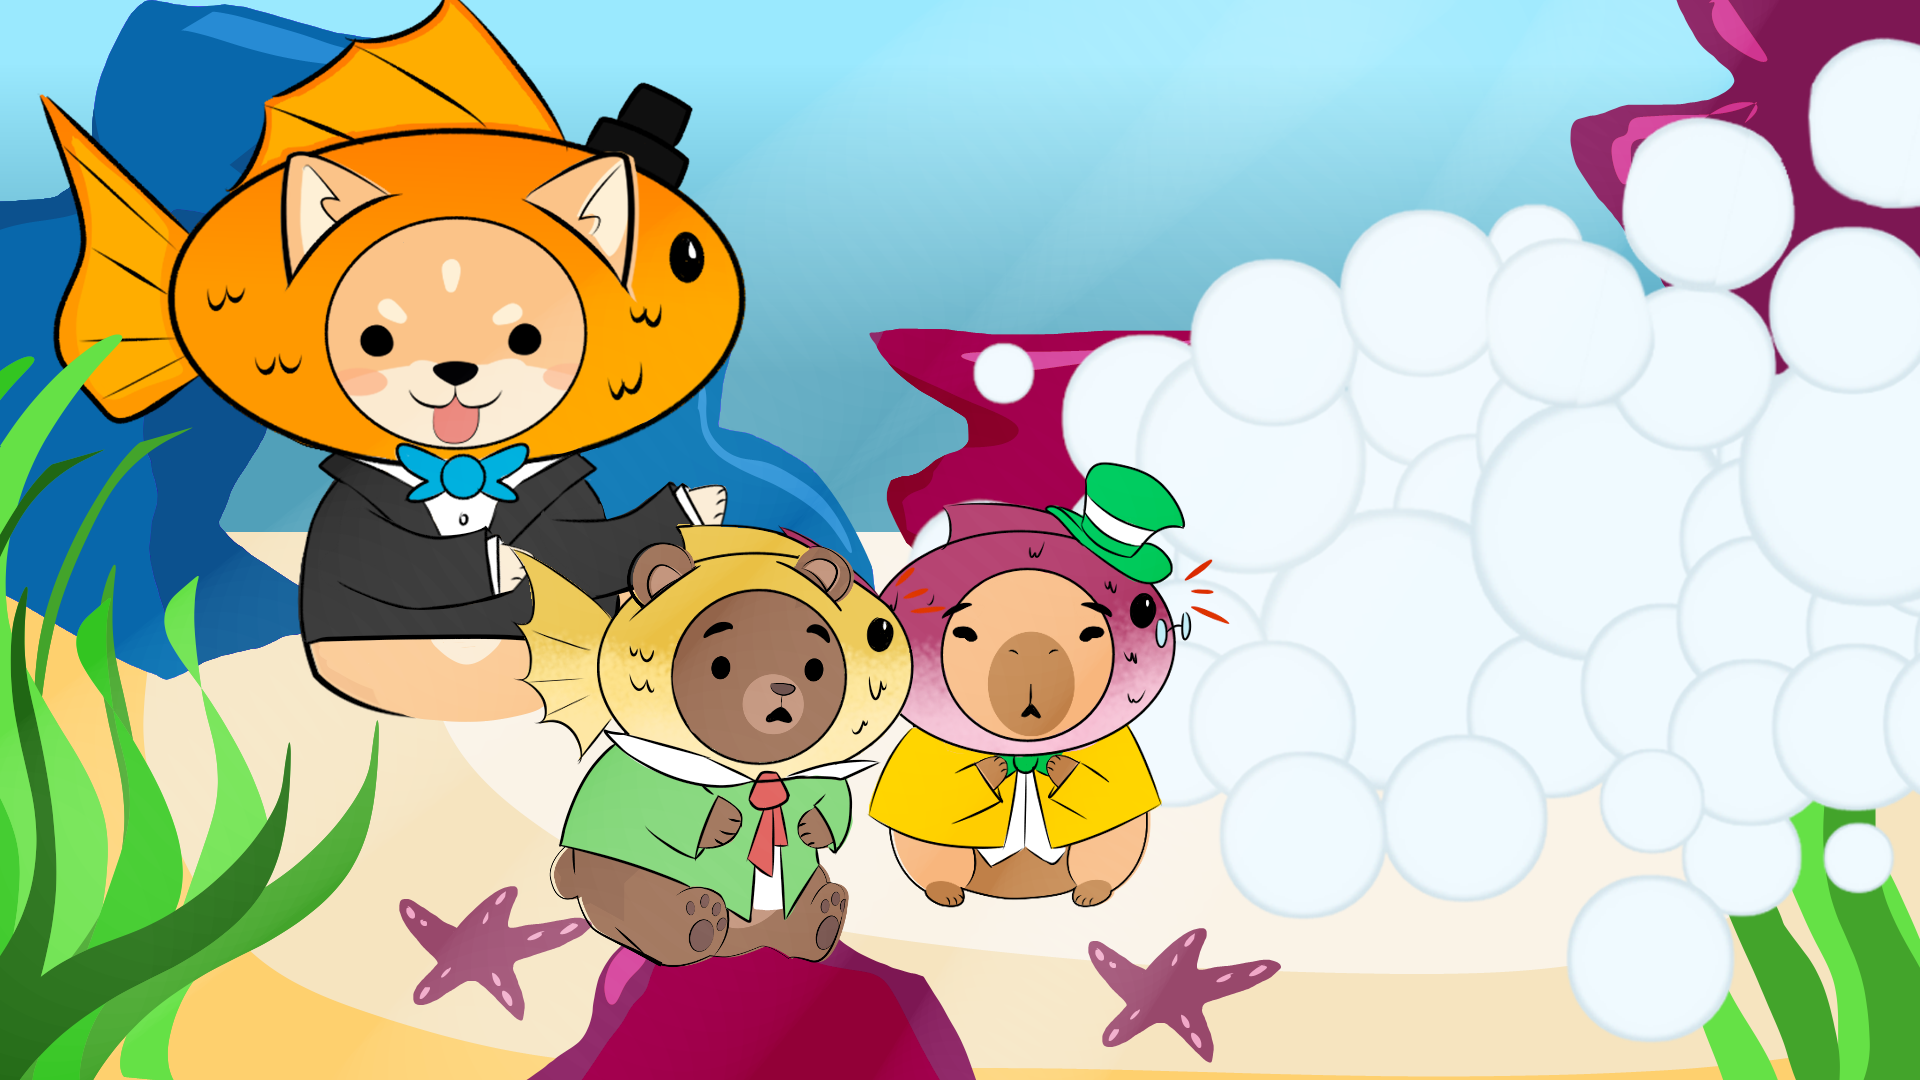
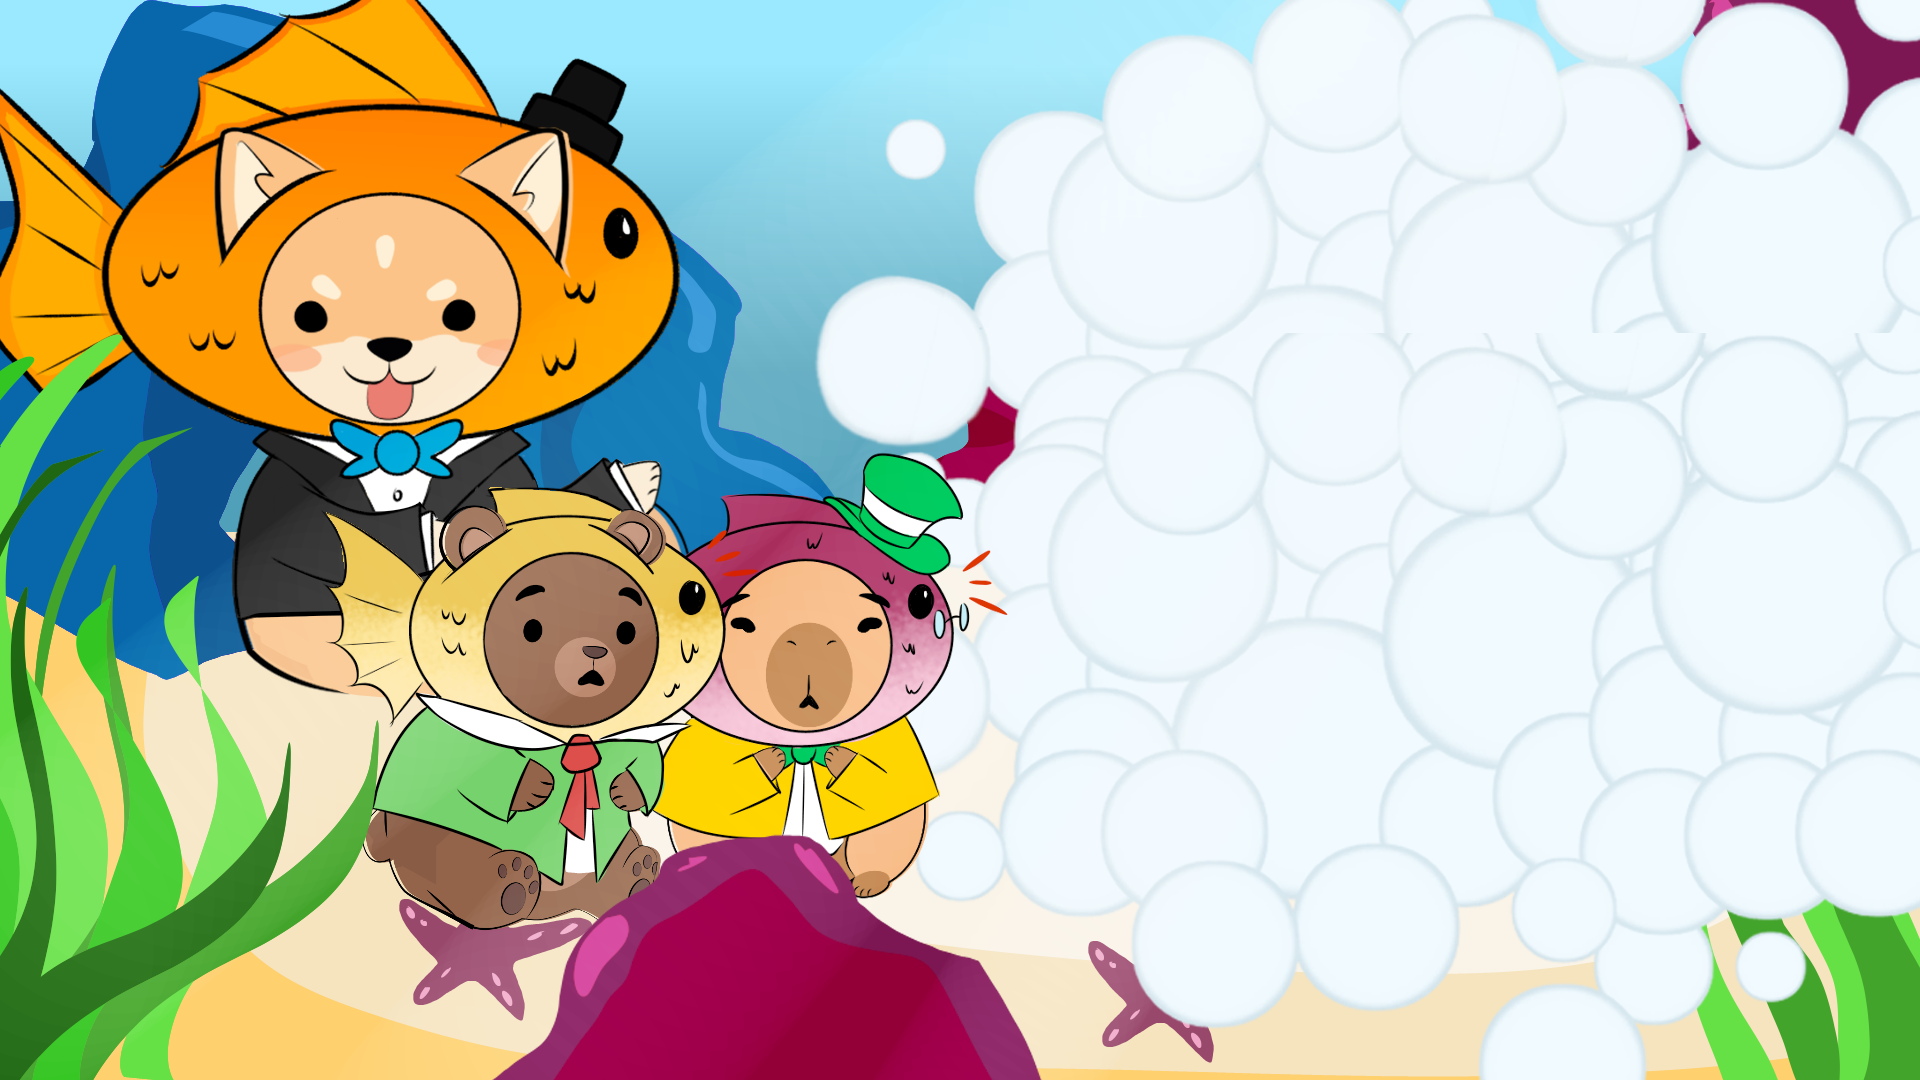
ajustes de imagenes de cuentos y actualización de JS

diff --git a/indexs/margarita.html b/indexs/margarita.html
@@ -1,71 +1,86 @@
 <!DOCTYPE html>
 <html lang="en">
+
 <head>
     <meta charset="UTF-8">
     <meta name="viewport" content="width=device-width, initial-scale=1.0">
-   <link rel="stylesheet" href="/assets/Css/Estilo_Cuentos.css">
-    <title>Document</title>
+    <link rel="icon" href="/img_generales/icono_formacion_estelar.ico" type="image/x-icon">
+    <link rel="stylesheet" href="/assets/Css/Estilo_Cuentos.css">
+    <title>A Margarita</title>
 </head>
+
 <body>
     <div id="logo">
-         <div id="logo1"> <a href="/index.html"><img src="/assets/Imagenes/splash/logo_con_icono_horizontal_con_blanco.png" width="35%" ></a></div>
-         <h1>|</h1>
-         <p id="Nombre_Nino" class="no-underline">Nombre</p>
-        <img src="/assets/Imagenes/Inicio/gatito1.png" width="80px" >
+        <div id="logo1"> <a href="/index.html"><img
+                    src="/assets/Imagenes/splash/logo_con_icono_horizontal_con_blanco.png" width="35%"></a></div>
+        <h1>|</h1>
+        <p id="Nombre_Nino" class="no-underline">Nombre</p>
+        <img src="/assets/Imagenes/Inicio/gatito1.png" width="80px">
     </div>
 
-     <!---------------------Cuento----------------------------------------------->
+    <!---------------------Cuento----------------------------------------------->
     <div class="cuentos">
         <h1>A margarita</h1>
         <img src="/assets/Imagenes/cuentos/A1.png"><br><br>
     </div>
     <div class="Cuento1" id="A1">
-    <p>Margarita iba a hacer un largo viaje.<br>
-    Por esa razón, su amigo, el
-    <b class="palabra_tooltip">Poeta<span class="tooltip">
-        <b>Palabra del dia de hoy</b><br><b>Poeta:</b> Persona que mediante la escritura o las palabras expresa emociones,<br> sentimientos o sensaciones
-    </span></b> Rubén Darío,
-    decidió escribirle como despedida un cuento,
-    para que leyera, y que conocemos gracias a una famosa poesía.<br>
-    Érase una vez una princesita, muy bonita, que vivía en un palacio de diamantes. Jugaba cada mañana con su rebaño de elefantes y era muy feliz.</p>
-    </div><br>
- 
-    <div class="Cuento1"  id="A2">
-        <p>Una tarde vio brillar en el cielo una estrella luminosa. Y como era muy traviesa deseó ir a buscarla.<br>
-        —¿Para qué quieres una estrella? — le preguntó el rey, su padre.<br>
-        —La querría para hacerme adornar un prendedor con un verso y una perla y una pluma y una flor— le contestó ilusionada la princesa.</p>
-        </div> <br>
- 
-    <div class="Cuento2"  id="A3" style="color: rgb(255, 255, 255);" >
-        <p>—¡Eso es una locura! ¡Es un capricho! Además, no debes tocar nada que brille en el cielo azul. <br>
-            Las estrellas y el cielo se van a enfadar— le regañó el rey.<br>
-        Pero la bella niña, sin permiso de papá, se fue al cielo saltando sobre el mar. Y fue camino arriba hasta la luna, y más allá hasta llegar a la estrella que tanto quería alcanzar.</p>
-    </div><br>
- 
-    <div class="Cuento1"  id="A4">
-        <p>—¿Qué te ha pasado, hija mía? Te he buscado y no te encontré. Y ¿qué tienes en el pecho que tan brillante se ve?— preguntó el rey, cariñoso, al verla regresar.<br>
-        —Atraída por la estrella, anduve por las olas y el viento hasta ella y... la corté— contestó inocente la princesa.<br>
-        —Pero, yo no te di permiso y menos para quitar un astro del cielo. Por tu capricho seguro que se enfadará el cielo— dijo regañándola el padre.<br>
-        —Por tu mala acción has de tener un castigo. ¡Vuelve al cielo y lo robado vas ahora a devolver!</p>
-    </div><br>
- 
-    <div class="Cuento2"  id="A5" style="color: rgb(255, 255, 255);">
-        <p>Se puso triste nuestra niña. Lloraba con tanto pesar que, compadecido, se les apareció una estrella.<br>
-        —Yo le ofrecí esa estrella en mis campos del cielo, para que estuviese bella— dijo con su dulce voz.</p>
+        <p>Margarita iba a hacer un largo viaje.<br>
+            Por esa razón, su amigo, el
+            <b class="palabra_tooltip">Poeta<span class="tooltip">
+                    <b>Palabra del dia de hoy</b><br><b>Poeta:</b> Persona que mediante la escritura o las palabras
+                    expresa emociones,<br> sentimientos o sensaciones
+                </span></b> Rubén Darío,
+            decidió escribirle como despedida un cuento,
+            para que leyera, y que conocemos gracias a una famosa poesía.<br>
+            Érase una vez una princesita, muy bonita, que vivía en un palacio de diamantes. Jugaba cada mañana con su
+            rebaño de elefantes y era muy feliz.</p>
     </div><br>
 
-    <div class="Cuento2"  id="A6">
-        <p>Y para celebrar aquel feliz acontecimiento el rey se vistió con sus ropas más brillantes. E hizo desfilar cuatrocientos elefantes por la orilla del mar.<br>
-        En esa gran fiesta lucía la princesa su brillante prendedor. El que tenía una estrella con un verso y una perla y una pluma y una flor.</p>
+    <div class="Cuento1" id="A2">
+        <p>Una tarde vio brillar en el cielo una estrella luminosa. Y como era muy traviesa deseó ir a buscarla.<br>
+            —¿Para qué quieres una estrella? — le preguntó el rey, su padre.<br>
+            —La querría para hacerme adornar un prendedor con un verso y una perla y una pluma y una flor— le contestó
+            ilusionada la princesa.</p>
+    </div> <br>
+
+    <div class="Cuento2" id="A3" style="color: rgb(255, 255, 255);">
+        <p>—¡Eso es una locura! ¡Es un capricho! Además, no debes tocar nada que brille en el cielo azul. <br>
+            Las estrellas y el cielo se van a enfadar— le regañó el rey.<br>
+            Pero la bella niña, sin permiso de papá, se fue al cielo saltando sobre el mar. Y fue camino arriba hasta la
+            luna, y más allá hasta llegar a la estrella que tanto quería alcanzar.</p>
+    </div><br>
+
+    <div class="Cuento1" id="A4">
+        <p>—¿Qué te ha pasado, hija mía? Te he buscado y no te encontré. Y ¿qué tienes en el pecho que tan brillante se
+            ve?— preguntó el rey, cariñoso, al verla regresar.<br>
+            —Atraída por la estrella, anduve por las olas y el viento hasta ella y... la corté— contestó inocente la
+            princesa.<br>
+            —Pero, yo no te di permiso y menos para quitar un <b class="palabra_tooltip">astro<span class="tooltip">
+                    <b>Palabra del dia de hoy</b><br><b>Astro:</b> Cualquier objeto natural que brilla o flota <br> 
+                     en el espacio, como una estrella, un planeta o la una.
+                </span></b> del cielo. Por tu capricho seguro que se enfadará el cielo— dijo regañándola el padre.<br>
+            —Por tu mala acción has de tener un castigo. ¡Vuelve al cielo y lo robado vas ahora a devolver!</p>
+    </div><br>
+
+    <div class="Cuento2" id="A5" style="color: rgb(255, 255, 255);">
+        <p>Se puso triste nuestra niña. Lloraba con tanto pesar que, compadecido, se les apareció una estrella.<br>
+            —Yo le ofrecí esa estrella en mis campos del cielo, para que estuviese bella— dijo con su dulce voz.</p>
+    </div><br>
+
+    <div class="Cuento2" id="A6">
+        <p>Y para celebrar aquel feliz acontecimiento el rey se vistió con sus ropas más brillantes. E hizo desfilar
+            cuatrocientos elefantes por la orilla del mar.<br>
+            En esa gran fiesta lucía la princesa su brillante prendedor. El que tenía una estrella con un verso y una
+            perla y una pluma y una flor.</p>
     </div><br><br>
- 
-     <!---------------------Boton jugar----------------------------------------------->
+
+    <!---------------------Boton jugar----------------------------------------------->
     <a href="/indexs/juegoCuentosMargarita.html"><button>Jugar</button></a>
     <br><br>
     <div id="foot">
         <a href="#" class="no-underline">Nombre</a>
         <a href="#" class="no-underline">Nombre</a>
-        <div id="logo1"><img src="/assets/Imagenes/Inicio/logocorto.png" width="25%" ></div>
+        <div id="logo1"><img src="/assets/Imagenes/Inicio/logocorto.png" width="25%"></div>
         <a href="#" class="no-underline">Nombre</a>
         <a href="#" class="no-underline">Nombre</a>
     </div>

diff --git a/indexs/principe_feliz.html b/indexs/principe_feliz.html
@@ -3,8 +3,9 @@
 <head>
     <meta charset="UTF-8">
     <meta name="viewport" content="width=device-width, initial-scale=1.0">
+    <link rel="icon" href="/img_generales/icono_formacion_estelar.ico" type="image/x-icon">
    <link rel="stylesheet" href="/assets/Css/Estilo_Cuentos.css">
-    <title>Document</title>
+     <title>El príncipe feliz</title>
 </head>
 <body>
     <div id="logo">
@@ -17,7 +18,7 @@
      <!---------------------Cuento----------------------------------------------->
     <div class="cuentos">
         <h1>El príncipe Feliz</h1>
-        <img src="/assets/Imagenes/cuentos/A1.png"><br><br>
+        <img src="/assets/Imagenes/cuentos/D.png"><br><br>
     </div>
     <div class="Cuento1" id="D1">
     <p>

diff --git a/indexs/nino_estrellas.html b/indexs/nino_estrellas.html
@@ -3,8 +3,9 @@
 <head>
     <meta charset="UTF-8">
     <meta name="viewport" content="width=device-width, initial-scale=1.0">
+    <link rel="icon" href="/img_generales/icono_formacion_estelar.ico" type="image/x-icon">
    <link rel="stylesheet" href="/assets/Css/Estilo_Cuentos.css">
-    <title>Document</title>
+     <title>El niño que contaba estrellas</title>
 </head>
 <body>
     <div id="logo">

diff --git a/indexs/boca_ancha.html b/indexs/boca_ancha.html
@@ -3,8 +3,9 @@
 <head>
     <meta charset="UTF-8">
     <meta name="viewport" content="width=device-width, initial-scale=1.0">
+    <link rel="icon" href="/img_generales/icono_formacion_estelar.ico" type="image/x-icon">
    <link rel="stylesheet" href="/assets/Css/Estilo_Cuentos.css">
-    <title>Document</title>
+     <title>Boca Ancha</title>
 </head>
 <body>
     <div id="logo">

diff --git a/index.html b/index.html
@@ -56,7 +56,10 @@
      </div>
 <hr>
  <!---------------------Boton para ir a los demas cuentos----------------------------------------------->
-    <button>Conoce mas cuentos</button>
+  
+ <button>Conoce más cuentos</button>
+  <br> <br>
+   <p>(¡Próximamente! :D)</p>
     <br><br><br>
 
     <!---------------------Formulario----------------------------------------------->

diff --git a/indexs/perfilInicio.html b/indexs/perfilInicio.html
@@ -3,8 +3,9 @@
 <head>
     <meta charset="UTF-8">
     <meta name="viewport" content="width=device-width, initial-scale=1.0">
+    <link rel="icon" href="/img_generales/icono_formacion_estelar.ico" type="image/x-icon">
     <link rel="stylesheet" href="/assets/Css/Estilo_perfiles.css">
-    <title>perfil Solo</title>
+    <title>Formacion Estelar</title>
 </head>
 <body>
  
